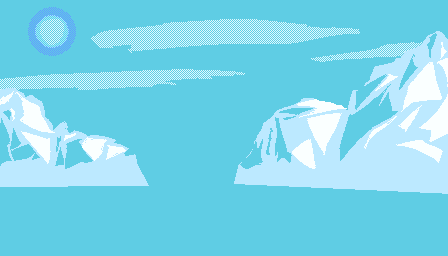
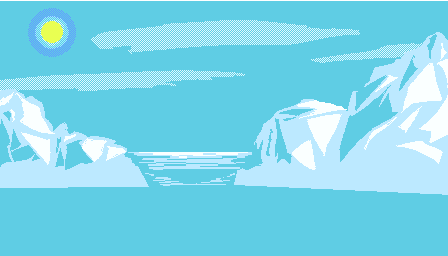
correção de performance e update na renderização dos cenários

diff --git a/src/loop/GRoom.java b/src/loop/GRoom.java
@@ -27,75 +27,84 @@ public class GRoom implements Runnable {
         /*------------ MÉTODO RUN DA THREAD ------------*/
     @Override
     public void run() {
+        double fixedStep = 1.0 / 60.0;
+        double accumulator = 0.0;
+
         while (true) {
 
-            if(!gc.isDisplayable() || !gc.isFocusOwner()){
+            if (!gc.isDisplayable() || !gc.isFocusOwner()) {
                 sleepEngine();
                 continue;
             }
-            
+
             double agora = System.nanoTime();
-            dT = (System.nanoTime() - ultimoTempo) / 1_000_000_000;
+            double frameTime = (agora - ultimoTempo) / 1_000_000_000.0;
             ultimoTempo = agora;
-            dT = Math.min(dT, 1.0 / 30.0);
-        
-            update(dT);
-            updates++;
-            render();
-            
-            //dificuldade crescente 
-            if (Gamestate.state == PLAYING_OFFLINE) {
-                Universal.SCORE += (int) (100 * dT);
 
-                if (Universal.SCORE - Universal.lastSpeedUpScore >= 1000) {
-                    Universal.lastSpeedUpScore = (Universal.SCORE / 1000) * 1000;
+            // Evita explosão de updates em travadas longas
+            if (frameTime > 0.25) {
+                frameTime = 0.25;
+            }
 
-                    // Diminuição do cooldown inicial até 2000
-                    if (Universal.SCORE <= 2000) {
-                        Universal.globalCooldown -= 500;
-                    } else {
-                        // Aumento de velocidade com limite
-                        Universal.increaseAllSpeed();
+            accumulator += frameTime;
 
-                        // A partir de 7000, cooldown diminui progressivamente, de 100 em 100, até 500
-                        if (Universal.SCORE >= 4000 && Universal.globalCooldown > 100) {
-                            Universal.globalCooldown -= 150;
-                            if (Universal.globalCooldown < 500) {
-                                Universal.globalCooldown = 500;
+            // Substeps: atualiza várias vezes se necessário
+            while (accumulator >= fixedStep) {
+                update(fixedStep);
+                updates++;
+                accumulator -= fixedStep;
+
+                // SCORE progressivo baseado no fixedStep, não no deltaTime mais
+                if (Gamestate.state == PLAYING_OFFLINE) {
+                    Universal.SCORE += (int) (100 * fixedStep);
+
+                    if (Universal.SCORE - Universal.lastSpeedUpScore >= 1000) {
+                        Universal.lastSpeedUpScore = (Universal.SCORE / 1000) * 1000;
+
+                        if (Universal.SCORE <= 2000) {
+                            Universal.globalCooldown -= 500;
+                        } else {
+                            Universal.increaseAllSpeed();
+                            if (Universal.SCORE >= 4000 && Universal.globalCooldown > 100) {
+                                Universal.globalCooldown -= 150;
+                                if (Universal.globalCooldown < 500) {
+                                    Universal.globalCooldown = 500;
+                                }
                             }
                         }
                     }
                 }
             }
 
+            // Renderiza uma vez por frame (último estado simulado)
+            render();
+            frames++;
+
+            // Controla o tempo de sono com base na lógica de FPS
             threadSleep = ((proximoFrame - System.nanoTime()) / 1_000_000);
-            if(threadSleep < 0){
+            if (threadSleep < 0) {
                 threadSleep = 0;
             }
-           
-            threadSleepMS = (long) threadSleep;
-            threadSleepNano = (int) ((threadSleep - threadSleepMS) * 1_000_000); 
 
-            // Dorme um pouco pra não travar a CPU
+            threadSleepMS = (long) threadSleep;
+            threadSleepNano = (int) ((threadSleep - threadSleepMS) * 1_000_000);
+
             try {
                 Thread.sleep(threadSleepMS, threadSleepNano);
             } catch (InterruptedException e) {
                 throw new RuntimeException(e);
             }
-            proximoFrame += tempoPorFrame;
-            
-            // FPS COUNTER
-            frames++;
 
+            proximoFrame += tempoPorFrame;
+
+            // FPS / UPS debug
             if (System.currentTimeMillis() - timer >= 1000) {
                 System.out.println("FPS: " + frames + " | UPS: " + updates);
                 frames = 0;
                 updates = 0;
                 timer += 1000;
             }
-            //System.out.println("Global Cooldown: " + Universal.globalCooldown);
         }
-        
     }
     /*------------ MÉTODO UPDATE ------------*/
     public void update(double dT) {

diff --git a/src/background/Trees1.java b/src/background/Trees1.java
@@ -12,9 +12,9 @@ import utilz.Spritesheet;
 import utilz.Universal;
 
 public class Trees1 extends Environment {
-
     
-    private float speed = 1.3f * Universal.SCALE; // Velocidade relativa ao mundo
+    float midValue = 5.4f;
+    //private double speed = Universal.OBST_SPEED; // Velocidade relativa ao mundo
     BufferedImage groundSpriteSheet;
     /*
     float drawX = x + i * (widthO * spritesheet.scale);
@@ -23,21 +23,21 @@ public class Trees1 extends Environment {
     
     public Trees1(Screen screen, GCanvas gc) {
         super(screen, gc);
-        this.y = -3;
+        this.y = -80;
         this.x = 0;
         initSprite();
         setIsActive(true);
     }
 
     public void initSprite() {
-        SpriteData trees1Data = SpriteLoader.spriteDataLoader().get("trees1");
+        SpriteData grassData = SpriteLoader.spriteDataLoader().get("midLayer");
         try {
-            groundSpriteSheet = ImageIO.read(getClass().getResource(trees1Data.getPath()));
+            groundSpriteSheet = ImageIO.read(getClass().getResource(grassData.getPath()));
         } catch (IOException e) {
             throw new RuntimeException(e);
         }
         //altura e largura do meu sprite do chão (fullscreen)
-        setWidth(448); //largura em px do FRAME ORIGINAL 
+        setWidth(896); //largura em px do FRAME ORIGINAL 
         setHeight(256); //altura em px do FRAME ORIGINAL
         setSpritesheet(groundSpriteSheet, Universal.SCALE);
     }
@@ -49,9 +49,9 @@ public class Trees1 extends Environment {
     @Override
     public void update(double deltaTime) {
         if (x + widthO * Universal.SCALE >= 0) {
-            x -= speed * deltaTime;
-            if (x <= -Universal.GAME_WIDTH) {
-                x = Universal.GAME_WIDTH;
+            this.setX(this.getX() + (float) (Universal.OBST_SPEED + midValue));
+            if (x <= -Universal.GAME_WIDTH ) {
+                x = 0;
             }
         }
     }
@@ -62,6 +62,5 @@ public class Trees1 extends Environment {
             spritesheet.render(g2d, (int) x, (int) y);
         }
     }
-}
     
-
+}

diff --git a/src/utilz/Screen.java b/src/utilz/Screen.java
@@ -3,6 +3,7 @@ package utilz;
 import background.Environment;
 import background.Grass;
 import background.Ground;
+import background.Trees1;
 import gamestates.Gamestate;
 import static gamestates.Gamestate.*;
 import instances.Objects;
@@ -43,6 +44,7 @@ public class Screen {
     /*--- obstáculos ---*/
     Ground groundlayer;
     Grass grasslayer;
+    Trees1 midlayer;
     /*--- game states ---*/
     Menu menuscreen;
     GameOver gameoverscreen;
@@ -57,15 +59,21 @@ public class Screen {
         gameoverscreen = new GameOver();
         multmenuscreen = new MultiplayerMenu();
         pofflinescreen = new POffline();
+            
+        //midlayer
+        //midlayer = new Trees1(this, this.gc);
+        //objectsOnScreen.add(midlayer);
+
         //grama 
-        /*grasslayer = new Grass(this, this.gc);
-        objectsOnScreen.add(grasslayer);*/
-        
-        
-        
+        grasslayer = new Grass(this, this.gc);
+        objectsOnScreen.add(grasslayer);
         //chão
         groundlayer = new Ground(this, this.gc);
         objectsOnScreen.add(groundlayer);
+        
+        
+        
+        
         
         
         player1 = new Player1(this, this.gc);

diff --git a/src/background/Grass.java b/src/background/Grass.java
@@ -13,7 +13,7 @@ import utilz.Universal;
 
 public class Grass extends Environment {
 
-    
+    float grassValue = 5f;
     //private double speed = Universal.OBST_SPEED; // Velocidade relativa ao mundo
     BufferedImage groundSpriteSheet;
     /*
@@ -23,7 +23,7 @@ public class Grass extends Environment {
     
     public Grass(Screen screen, GCanvas gc) {
         super(screen, gc);
-        this.y = -3;
+        this.y = -80;
         this.x = 0;
         initSprite();
         setIsActive(true);
@@ -49,7 +49,7 @@ public class Grass extends Environment {
     @Override
     public void update(double deltaTime) {
         if (x + widthO * Universal.SCALE >= 0) {
-            this.setX(this.getX() + (float) Universal.OBST_SPEED );
+            this.setX(this.getX() + (float) (Universal.OBST_SPEED + grassValue));
             if (x <= -Universal.GAME_WIDTH ) {
                 x = 0;
             }

diff --git a/src/instances/obstacles/Saw.java b/src/instances/obstacles/Saw.java
@@ -13,7 +13,7 @@ import utilz.SpriteLoader;
 import utilz.Spritesheet;
 import utilz.Universal;
 
-public class Saw extends Obstacles{ //extends Obstacles
+public class Saw extends Obstacles{ //extends Obstacles, que extende objects
     /*------------ ATRIBUTOS ------------*/
     BufferedImage sawSpriteSheet;
     /*------------ CONSTRUTOR ------------*/
@@ -62,4 +62,18 @@ public class Saw extends Obstacles{ //extends Obstacles
             drawObstHitbox(g2d);
         }
     }
+    
+    @Override
+    public void update(double deltaTime) {
+        //speed =  Universal.OBST_SPEED;
+        if (this.isActive) { // se estiver ativo
+            /*if(speed < -MAX_SPEED){
+                speed = -MAX_SPEED;
+            }*/
+
+            this.setX(this.getX() + (float) Universal.OBST_SPEED); //atualizo a speed
+            updateObstHitbox();
+        }
+    }
+    
 }

diff --git a/src/instances/entities/Movement.java b/src/instances/entities/Movement.java
@@ -8,7 +8,7 @@ public class Movement {
     */
     
     Player1 player1;
-    public double speed = 2.2*Universal.SCALE;
+    public double speed = 120.2*Universal.SCALE;
     public double MAX_SPEED = 3.5*Universal.SCALE;
     public float horizontalSpeed;
     public float atrito = 25.0f*Universal.SCALE;
@@ -84,11 +84,11 @@ public class Movement {
 
         if (Universal.right && !Universal.dead) {
 
-            horizontalSpeed = (float) speed;
+            horizontalSpeed = (float) speed * (float) deltaTime;
 
         } else if (Universal.left && !Universal.dead) {
 
-            horizontalSpeed = (float) -speed;
+            horizontalSpeed = (float) -speed * (float) deltaTime;
 
         } else if (Universal.dead){
             horizontalSpeed = 0;

diff --git a/src/instances/obstacles/Obstacles.java b/src/instances/obstacles/Obstacles.java
@@ -54,8 +54,10 @@ public abstract class Obstacles extends Objects{ //muito similiar a classe Entit
             /*if(speed < -MAX_SPEED){
                 speed = -MAX_SPEED;
             }*/
+            
         this.setX(this.getX() + (float) Universal.OBST_SPEED ); //atualizo a speed
         updateObstHitbox();
+            System.out.printf("X: %.2f, Speed: %.2f, dT: %.5f\n", getX(), Universal.OBST_SPEED, deltaTime);
         }
     }
     
